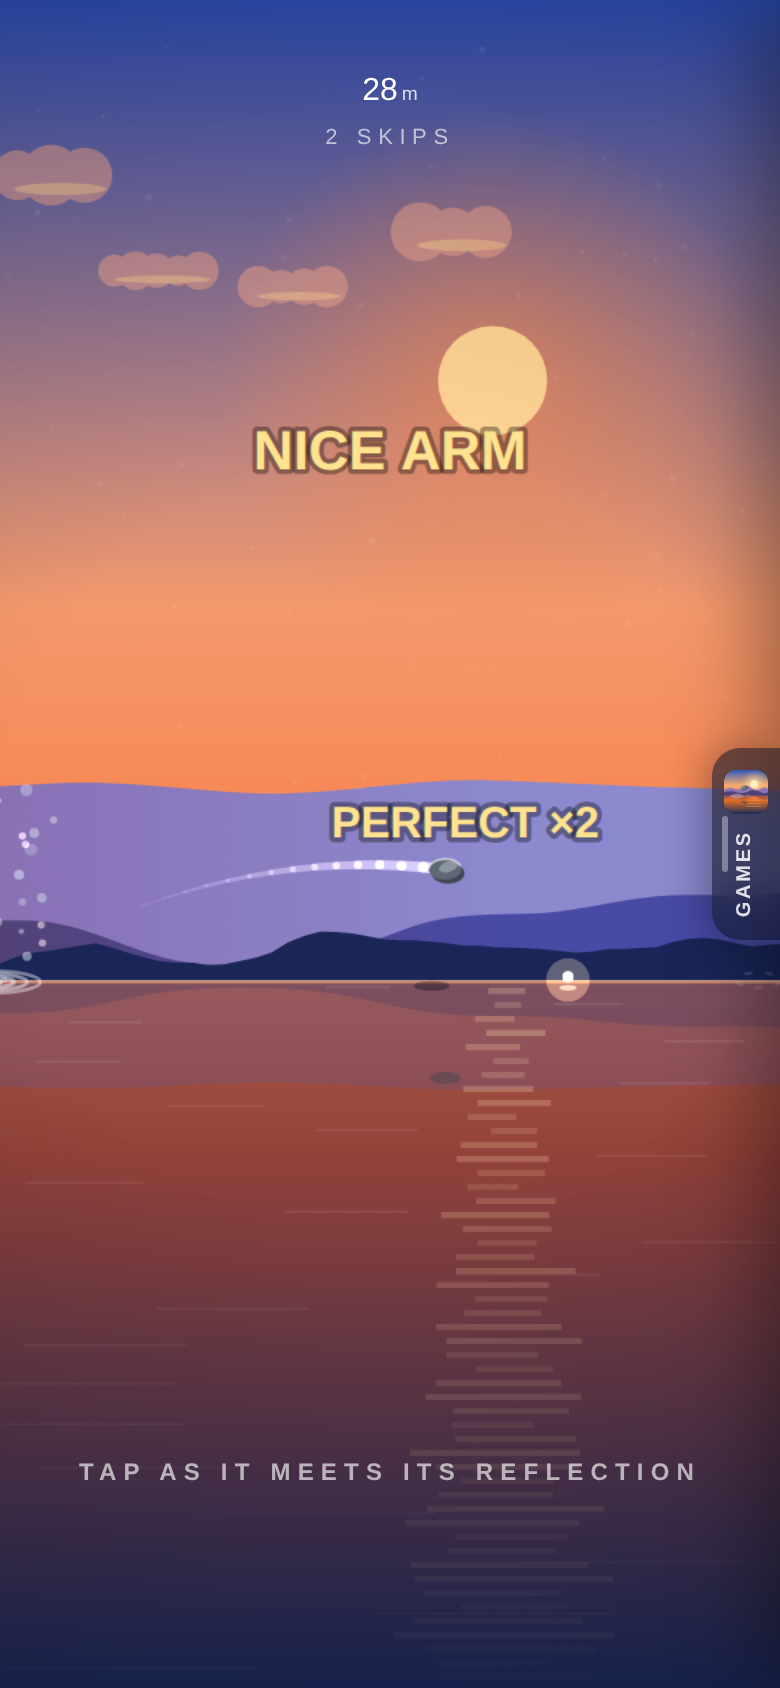
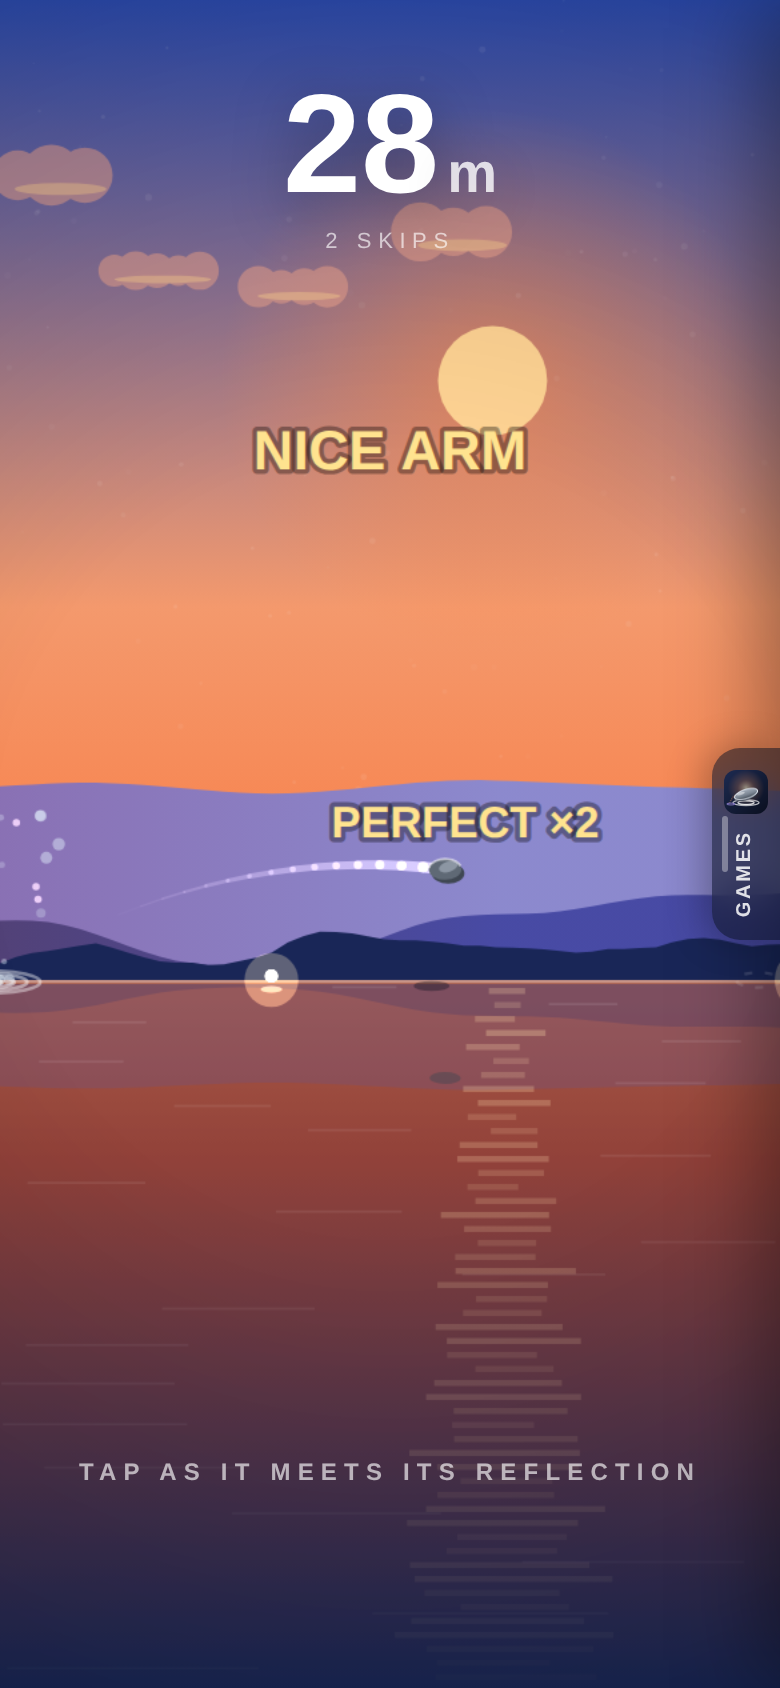
Store screenshots: seven repeatable frames at 1290x2796 and 1284x2778; SKIP's distance reads as a score
Frames: the box, Sky Temple (a perfect drop), POP (chains), SKIP, ORBIT
(momentum), MELT and a friend challenge. Fixed seeds, a returning player's bests,
the whole device in view, and no box chrome (back pill, mute, switcher, coach
marks hidden). The generator clears stale frames before rendering. SKIP's in-run
distance now uses the shared score scale; 'How to play' no longer wraps.

Claude-Session: https://claude.ai/code/session_01GN1ViAcJT7YnuN6Pfh4UL5

diff --git a/skip/css/style.css b/skip/css/style.css
@@ -95,3 +95,8 @@ html, body { background: #1a2a4a; }
 .in-box .title-block { margin-top: 10vh; }
 
 @media (max-height: 700px) { .start { gap: 10px; } .menu-list { gap: 8px; } .tap-start { font-size: 12px; } }
+
+/* the in-run distance is the score: same scale as every other game's */
+.distance { font-size: clamp(56px, 18vw, 92px); font-weight: 900; line-height: 1; text-shadow: 0 6px 30px rgba(0,0,0,.35); transform-origin: center; }
+.distance .unit { font-size: .4em; margin-left: 4px; letter-spacing: 0; }
+.btn-row .btn { white-space: nowrap; padding-inline: 12px; letter-spacing: .14em; font-size: 13px; }
